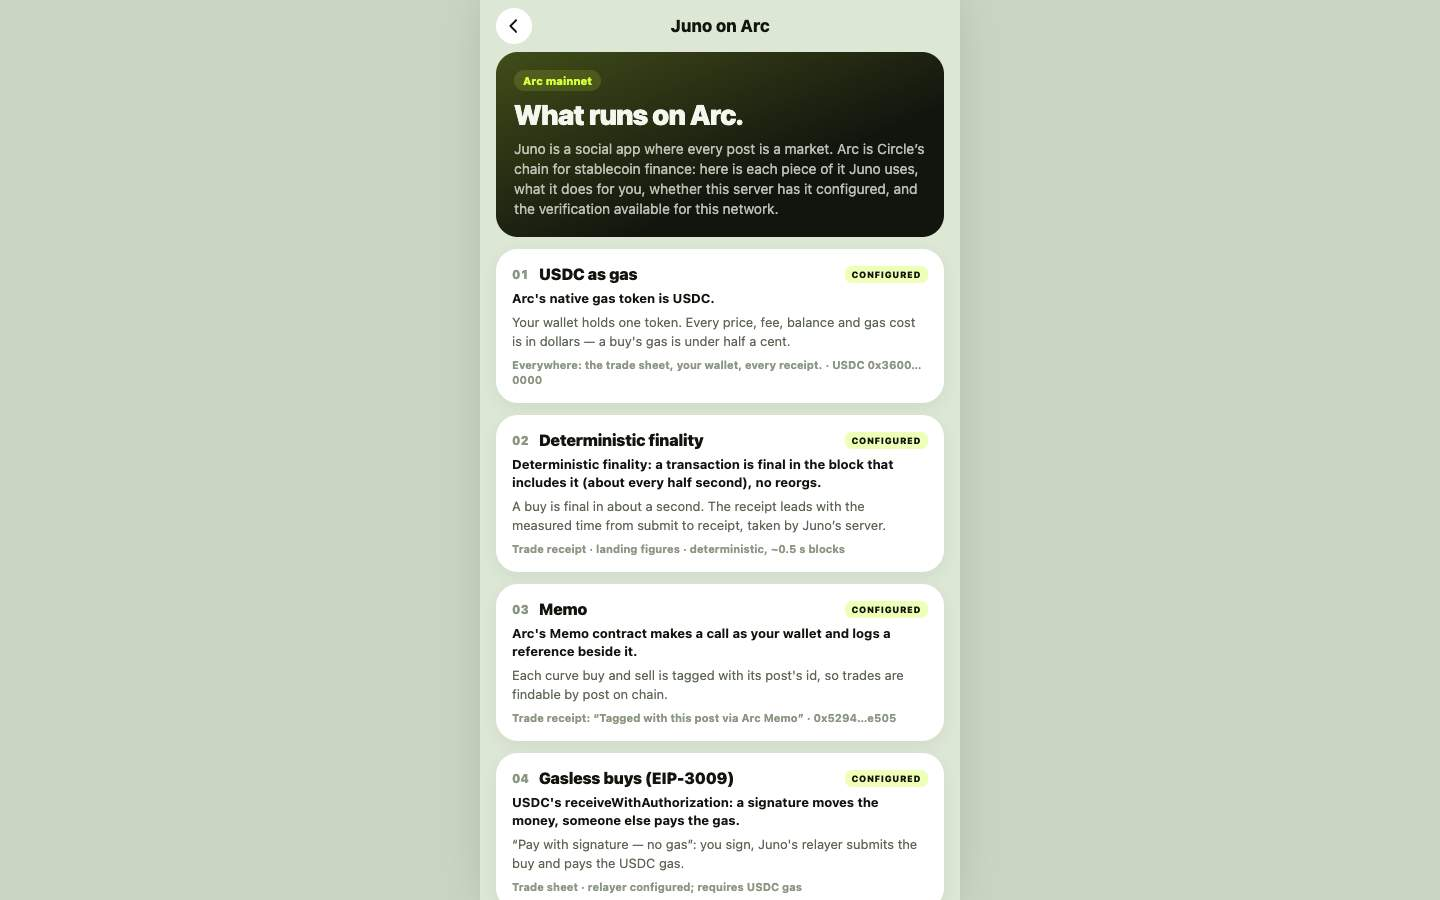
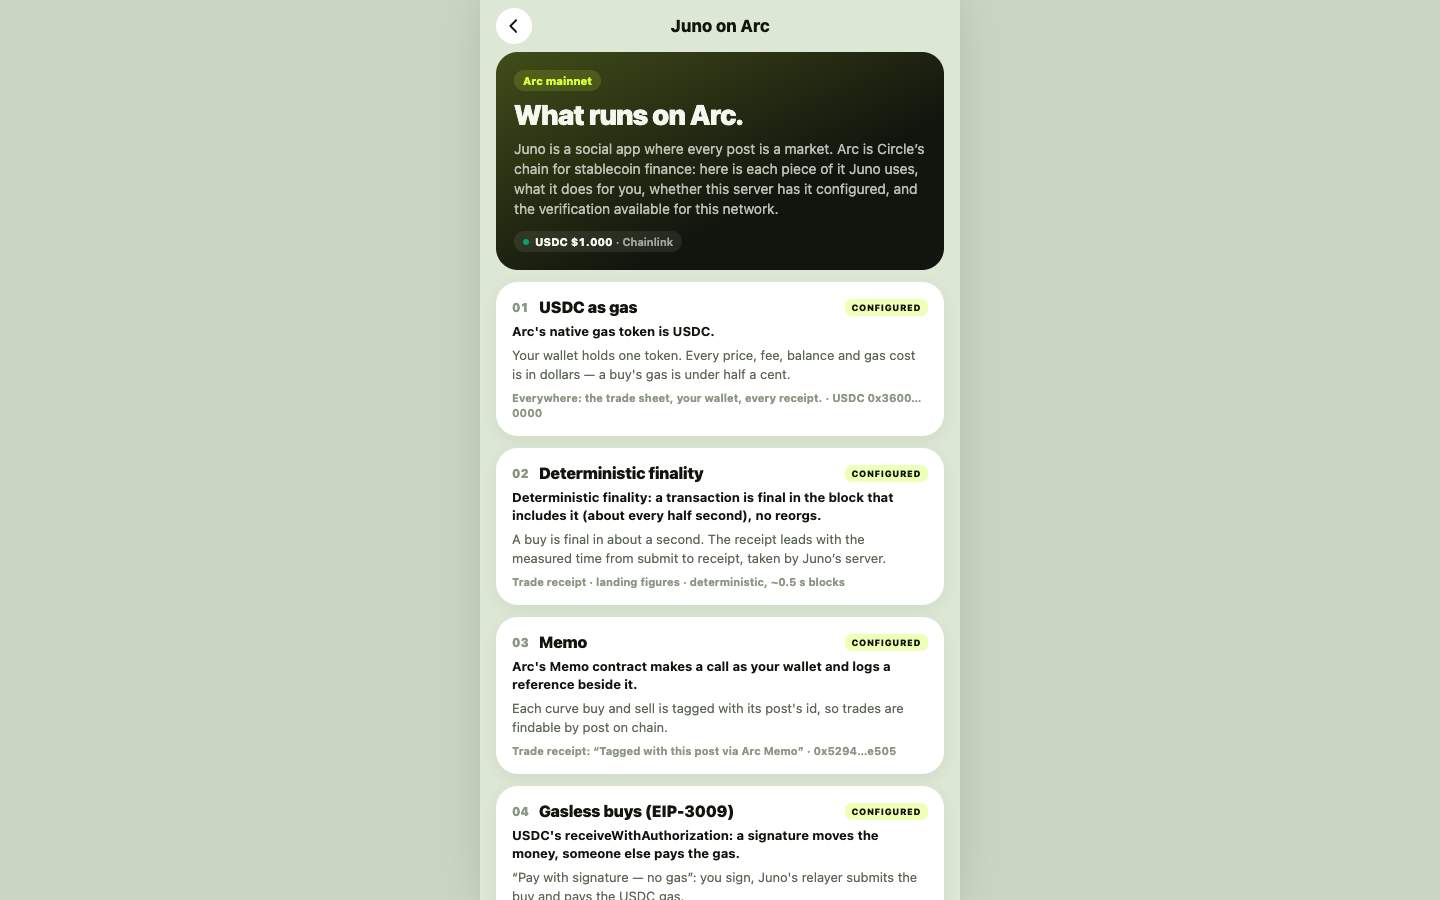
Restore mainnet video feed and enable mainnet reference feeds

Changed region(s): [[0.3438, 0.2489, 0.6562, 1.0]]

diff --git a/tests/unit/juno-feed-network.test.ts b/tests/unit/juno-feed-network.test.ts
@@ -1,0 +1,23 @@
+import { afterEach, expect, it, vi } from "vitest";
+const calls = vi.hoisted(() => ({ read: vi.fn() }));
+vi.mock("viem", async (original) => ({
+  ...await original<typeof import("viem")>(),
+  createPublicClient: () => ({ readContract: calls.read }),
+}));
+afterEach(() => { vi.unstubAllEnvs(); vi.resetModules(); calls.read.mockReset(); });
+it("reads the public feed when hosted on mainnet", async () => {
+  vi.stubEnv("NEXT_PUBLIC_ARC_NETWORK", "mainnet");
+  vi.stubEnv("ARC_MAINNET_RPC_URL", "https://rpc.mainnet.arc.io");
+  const now = BigInt(Math.floor(Date.now() / 1000));
+  calls.read.mockImplementation(async ({ functionName }) => functionName === "decimals" ? 8 : [1n, 100000000n, now, now, 1n]);
+  const { usdcPeg } = await import("@/lib/juno/chainlink");
+  expect(await usdcPeg()).toMatchObject({ priceUsd: 1, stale: false });
+  expect(calls.read).toHaveBeenCalledTimes(2);
+});
+it("retains the hosted-testnet guard", async () => {
+  vi.stubEnv("NEXT_PUBLIC_ARC_NETWORK", "testnet");
+  vi.stubEnv("ARC_MAINNET_RPC_URL", "https://rpc.mainnet.arc.io");
+  const { usdcPeg } = await import("@/lib/juno/chainlink");
+  expect(await usdcPeg()).toBeNull();
+  expect(calls.read).not.toHaveBeenCalled();
+});

diff --git a/lib/juno/chainlink.ts b/lib/juno/chainlink.ts
@@ -2,7 +2,7 @@ import { createPublicClient, http, keccak256, parseAbi, stringToBytes, type Addr
 
 import { junoTrackersAbi } from "./abi";
 import { publicClient } from "./client";
-import { arcMainnetChain, mainnetRpcEndpoint, trackersAddress } from "./network";
+import { arcMainnetChain, chainId, mainnetRpcEndpoint, trackersAddress } from "./network";
 import { ttlCache, withRetry } from "./rpc";
 
 /**
@@ -112,7 +112,7 @@ export function readingFrom(
 
 let mainnet: PublicClient | null = null;
 function mainnetClient(): PublicClient {
-  if (!/^https?:\/\/(127\.0\.0\.1|localhost)(:|\/|$)/.test(mainnetRpcEndpoint())) throw Error("Reference feeds require a local Arc mainnet fork; unavailable on hosted testnet");
+  if (chainId() !== 5042 && !/^https?:\/\/(127\.0\.0\.1|localhost)(:|\/|$)/.test(mainnetRpcEndpoint())) throw Error("Reference feeds require a local Arc mainnet fork; unavailable on hosted testnet");
   mainnet ??= createPublicClient({
     chain: arcMainnetChain,
     transport: http(mainnetRpcEndpoint(), { retryCount: 0, timeout: 15_000 }),

diff --git a/docs/HOSTED-MAINNET.md b/docs/HOSTED-MAINNET.md
@@ -17,8 +17,15 @@ The previous production artifacts were retained at `https://juno-arc-testnet.ver
 
 This migration performs reads only: no wallet connection, signature, deposit, payment, withdrawal or chain broadcast. Mainnet contract/deployment transaction evidence is recorded separately in the repository. Local executors remain an on-demand demo requirement, not an always-on hosting service provisioned here.
 
-Current backend check: `/api/juno/config` reports mainnet, but `/api/juno/coins` returns 500 while durable storage is unavailable.
 
 Production environment: API: NEXT_PUBLIC_ARC_NETWORK=mainnet; ARC_RPC_URL=NEXT_PUBLIC_ARC_RPC_URL=https://rpc.mainnet.arc.io; JUNO_DEPLOYMENT_FILE=deployments/arc-mainnet.json; MONGODB_DB=arc_juno_mainnet; JUNO_RELAYER_PRIVATE_KEY from mainnet roles. Expo: EXPO_PUBLIC_API_URL=https://juno-arc-api.vercel.app.
 
 Verified: 9 routes returned HTTP 200 with no rendered testnet wording, wrong Arc explorer link or uncaught page exception. Network APIs and RPC reported chain 5042; expected mainnet contract bytecode was present. Screenshots and machine-readable results are saved beside this report.
+
+## Final hosted polish — 2026-10-15
+
+The existing ARCVID video launch was registered through the hosted receipt-verifying pools API and read back from MongoDB. Original demonstration artwork is served from `/proof/mainnet-video.png`; no upload/pinning or AI service was called. Replay the DB-only import with `node scripts/backfill-mainnet-video.mjs`.
+
+Re-run: `node scripts/e2e-browser-hosted-mainnet.mjs`. Also run `node scripts/e2e-browser-hosted-proof.mjs` for artifact visibility and applicable sign-in checks.
+
+The former testnet-only reference-feed guard now permits public mainnet reads when the app targets chain 5042; both regression tests passed. No mainnet broadcasts or paid API calls. Live mainnet reads and DB writes only; fork transactions and complete wallet sign-ins: Not run.
